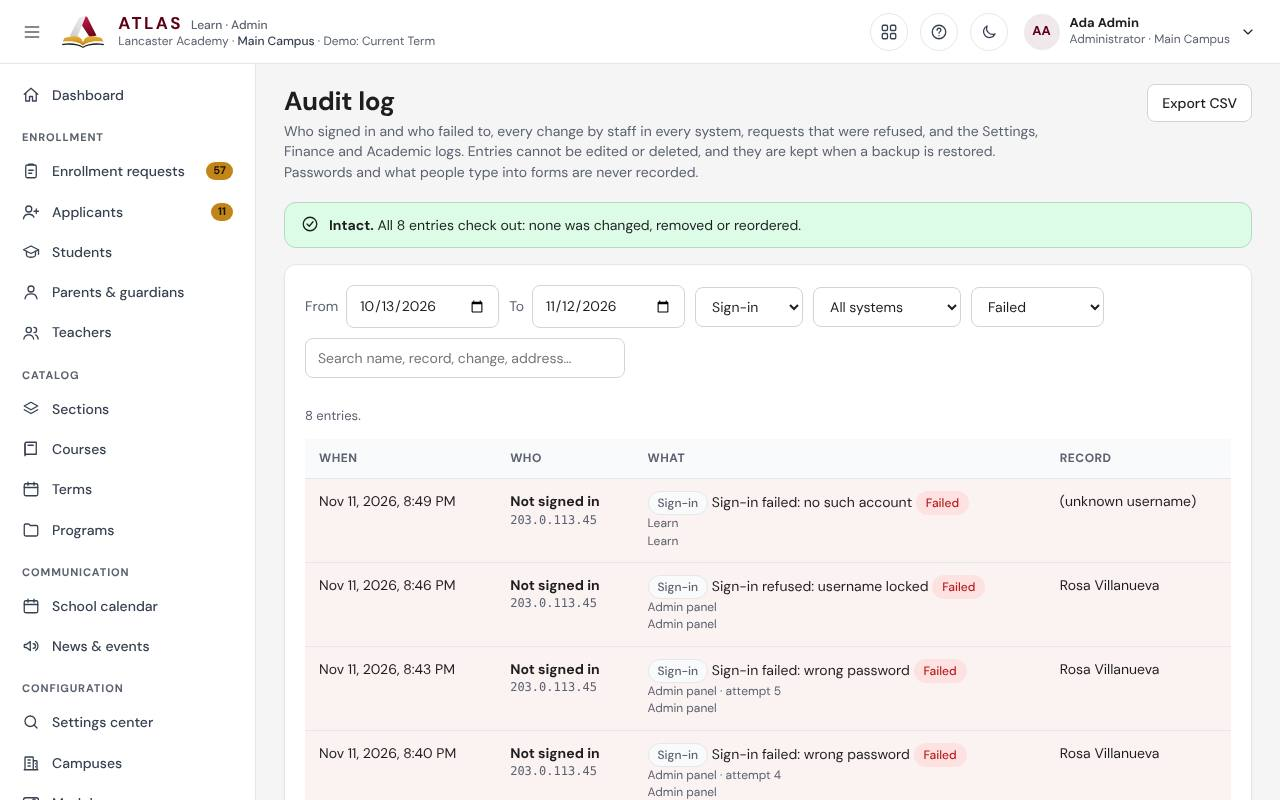
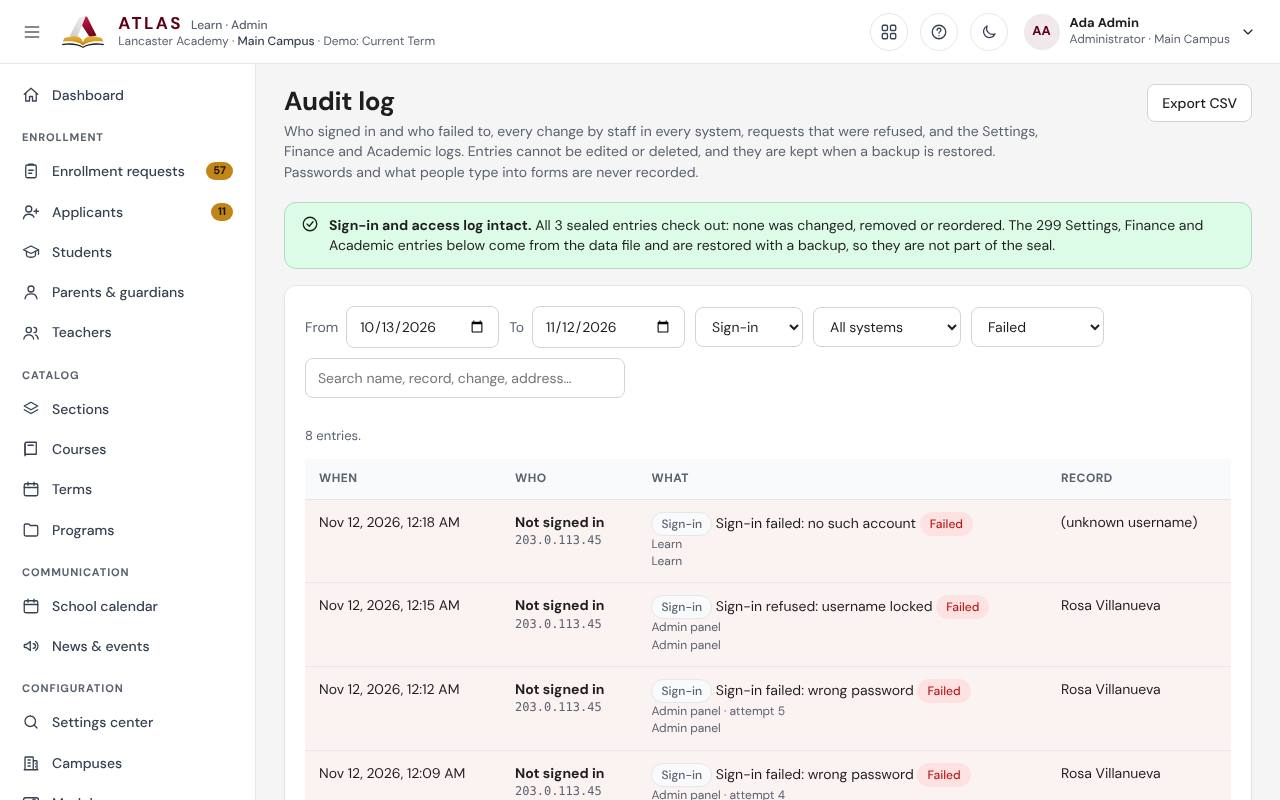
ATLAS: fix three VAPT high-priority findings (DoS body cap, audit verify cost, audit seal scope)
A two-cycle VAPT turned up three high-priority issues, now fixed:

- C1 (unauthenticated DoS): a request body was read and parsed, up to 20 MB,
  before the rate limiter ran, so one anonymous request could stall or crash the
  single-threaded server. The web server now calls api.prepare() first, which
  tallies the rate limits and caps the body at 256 KB for anyone not signed in
  (20 MB stays for signed-in uploads), before a byte is read.

- G2 (audit-log verify cost): verify() re-read and re-parsed the whole
  audit-log.jsonl on every Audit log page load, synchronously. It now caches the
  result and recomputes only when the file changed on disk since the last check
  (size or mtime); our own appends extend the cache, so repeated loads cost a
  stat(). Tamper detection is unchanged.

- G1 (audit "Intact" scope): the badge implied every row was sealed, but the
  Settings, Finance and Academic rows come from the data file and are restored
  with a backup. The notice now reads "Sign-in and access log intact" and states
  how many shown entries sit outside the seal; the route returns sealed/unsealed
  counts.

Guides and the Audit log screenshot updated; a regression test covers the
signed-out body cap. cd lms && npm test: 138 pass.

Claude-Session: https://claude.ai/code/session_0144m4kAiN1qd67UTLL7L4Zw

diff --git a/lms/server/audit.js b/lms/server/audit.js
@@ -17,6 +17,7 @@ import { ROLES, roleLabel } from '../shared/roles.js';
 
 export const AUDIT_FILE = 'audit-log.jsonl';
 const hashOf = (prev, entry) => createHash('sha256').update(`${prev}\n${JSON.stringify(entry)}`).digest('hex');
+const sameStat = (a, b) => Boolean(a && b && a.size === b.size && a.mtimeMs === b.mtimeMs);
 
 export const SYSTEM_LABELS = { home: 'ATLAS home', learn: 'Learn', admin: 'Admin panel', academic: 'Academic', people: 'People', finance: 'Finance', control: 'Users & Access', system: 'Users & Access', help: 'Help' };
 export const KIND_LABELS = { signin: 'Sign-in', signout: 'Sign-out', password: 'Password', account: 'Account', access: 'Access', session: 'Session', settings: 'Settings', change: 'Change', refused: 'Refused', data: 'Data' };
@@ -67,12 +68,23 @@ export function createAudit(db) {
     }
   }
   let last = entries.length ? { seq: entries.at(-1).seq || entries.length, hash: entries.at(-1).hash || '' } : { seq: 0, hash: '' };
+  // verify() re-reads the whole file to detect an edit made outside ATLAS. The audit page loads it
+  // on every visit, so the result is cached and only recomputed when the file has actually changed on
+  // disk since the last check (its size or modified time differs from what we recorded). Our own
+  // appends update the record, so a run of page loads with no outside edit each cost only a stat().
+  const statOf = () => { try { const s = fs.statSync(file); return { size: s.size, mtimeMs: s.mtimeMs }; } catch { return null; } };
+  let cache = null; // the last verify() result
+  let cacheStat = null; // the file's size + mtime when `cache` was computed
   const append = (fields) => {
     const entry = { seq: last.seq + 1, ...fields, prev: last.hash };
     entry.hash = hashOf(last.hash, entry);
+    const goodBefore = file && cache?.ok && cacheStat && sameStat(cacheStat, statOf());
     if (file) fs.appendFileSync(file, `${JSON.stringify(entry)}\n`, { mode: 0o640 });
     entries.push(entry);
     last = { seq: entry.seq, hash: entry.hash };
+    // If the chain was intact and untouched from outside right up to this append, extend the cached
+    // result instead of forcing the next verify() to re-read the whole file; otherwise clear it.
+    if (file) { if (goodBefore) { cache = { ok: true, count: entry.seq }; cacheStat = statOf(); } else { cache = null; cacheStat = null; } }
     return entry;
   };
   // A trail kept inside the data file by an earlier ATLAS moves into the file, once; its demo
@@ -117,27 +129,36 @@ export function createAudit(db) {
     entries: () => entries,
     count: () => last.seq,
     // Re-computes the chain from the file: ok when no entry was changed, removed or reordered.
+    // The result is cached and only recomputed when the file changed on disk since the last call.
     verify() {
-      let lines;
-      if (file) lines = fs.existsSync(file) ? fs.readFileSync(file, 'utf8').split('\n').filter((l) => l.trim()) : [];
-      else lines = entries.map((x) => JSON.stringify(x));
-      let prev = '';
-      let seq = 0;
-      for (const line of lines) {
-        let e;
-        try {
-          e = JSON.parse(line);
-        } catch {
-          return { ok: false, count: seq, brokenAt: seq + 1, at: null };
-        }
-        const { hash, ...rest } = e;
-        if (e.prev !== prev || e.seq !== seq + 1 || hashOf(prev, rest) !== hash) return { ok: false, count: seq, brokenAt: e.seq ?? seq + 1, at: e.at || null };
-        prev = hash;
-        seq = e.seq;
+      if (file) {
+        const now = statOf();
+        if (cache && cacheStat && sameStat(cacheStat, now)) return cache;
+        const r = verifyLines(fs.existsSync(file) ? fs.readFileSync(file, 'utf8').split('\n').filter((l) => l.trim()) : []);
+        cache = r;
+        cacheStat = statOf();
+        return r;
       }
-      return { ok: true, count: seq };
+      return verifyLines(entries.map((x) => JSON.stringify(x)));
     },
   };
+  function verifyLines(lines) {
+    let prev = '';
+    let seq = 0;
+    for (const line of lines) {
+      let e;
+      try {
+        e = JSON.parse(line);
+      } catch {
+        return { ok: false, count: seq, brokenAt: seq + 1, at: null };
+      }
+      const { hash, ...rest } = e;
+      if (e.prev !== prev || e.seq !== seq + 1 || hashOf(prev, rest) !== hash) return { ok: false, count: seq, brokenAt: e.seq ?? seq + 1, at: e.at || null };
+      prev = hash;
+      seq = e.seq;
+    }
+    return { ok: true, count: seq };
+  }
 }
 
 // ----- The combined trail, for Control → Audit trail -----

diff --git a/lms/server/api.js b/lms/server/api.js
@@ -59,6 +59,12 @@ import { addFinanceDemo, removeFinanceDemo } from './finance-demo.js';
 
 const COOKIES = { portal: PORTAL_COOKIE, admin: ADMIN_COOKIE, hris: HRIS_COOKIE };
 
+// The largest request body: 20 MB for someone signed in (files travel as base64 in JSON), and
+// 256 KB for anyone else; signing in, applying and first-run setup need only a few hundred bytes.
+// Reading and decoding a large body holds up the whole server, so a stranger may not send one.
+export const MAX_BODY_SIGNED_IN = 20 * 1024 * 1024;
+export const MAX_BODY_SIGNED_OUT = 256 * 1024;
+
 const fail = (msg, status = 400) => {
   throw new HttpError(status, msg);
 };
@@ -513,10 +519,15 @@ export function createApi(db, { clock = () => new Date(), setupCode = process.en
   // ----- Request handling -----
   const MODULE_NAMES = Object.fromEntries(MODULES.map((m) => [m.id, m.label]));
 
+  // Requests whose rate-limit tally was already taken by prepare() (the web server calls it before
+  // reading the body); handle() then does not count them again. A WeakSet so finished requests drop out.
+  const counted = new WeakSet();
   handle.sealPasswords = sealPasswords;
   handle.audit = audit;
+  handle.prepare = prepare;
   return handle;
-  async function handle(req, url, body) {
+  // Who sent a request, from its session cookies (no body needed).
+  function whoIs(req) {
     const cookies = parseCookies(req.headers.cookie);
     const resolve = (side, token) => {
       const s = sides[side].get(token);
@@ -529,12 +540,28 @@ export function createApi(db, { clock = () => new Date(), setupCode = process.en
     const portalUser = resolve('portal', portalToken);
     const adminUser = resolve('admin', adminToken);
     const hrisUser = resolve('hris', hrisToken);
+    return { cookies, portalToken, adminToken, hrisToken, portalUser, adminUser, hrisUser, signedIn: portalUser || adminUser || hrisUser };
+  }
+  // Called by the web server before it reads a request's body: the request is counted against the
+  // rate limits first (a flood is refused before any work is done), and the body may be large
+  // (uploads) only for someone signed in. Signing in, applying and first-run setup are small.
+  function prepare(req) {
+    const { signedIn } = whoIs(req);
+    if (signedIn) limits.hit('user', signedIn.id);
+    else limits.hit('address', clientIp(req));
+    counted.add(req);
+    return { maxBody: signedIn ? MAX_BODY_SIGNED_IN : MAX_BODY_SIGNED_OUT };
+  }
+
+  async function handle(req, url, body) {
+    const { cookies, portalToken, adminToken, hrisToken, portalUser, adminUser, hrisUser, signedIn } = whoIs(req);
     const tokens = { portal: portalToken, admin: adminToken, hris: hrisToken };
     const ip = clientIp(req);
     const agent = String(req.headers['user-agent'] || '').slice(0, 160);
-    const signedIn = portalUser || adminUser || hrisUser;
-    if (signedIn) limits.hit('user', signedIn.id);
-    else limits.hit('address', ip);
+    if (!counted.has(req)) {
+      if (signedIn) limits.hit('user', signedIn.id);
+      else limits.hit('address', ip);
+    }
     // This app's own address as the browser sees it (behind Caddy: X-Forwarded-*), for the Keycloak redirects.
     const origin = process.env.PUBLIC_URL?.replace(/\/$/, '') || `${String(req.headers['x-forwarded-proto'] || (req.socket?.encrypted ? 'https' : 'http')).split(',')[0]}://${req.headers['x-forwarded-host'] || req.headers.host || 'localhost'}`;
 

diff --git a/lms/server/system.js b/lms/server/system.js
@@ -395,7 +395,8 @@ export function registerSystemRoutes(route, ctx, { sides, throttle }) {
   sys('GET', '/api/system/audit', (a) => {
     const { query } = a;
     const f = { q: query.q, source: query.source, kind: query.kind, system: query.system, outcome: query.outcome, userId: query.userId, from: query.from, to: query.to };
-    const list = filterTrail(everything(), f);
+    const all = everything();
+    const list = filterTrail(all, f);
     if (query.format === 'csv') {
       log(a, { kind: 'data', action: 'Downloaded the audit trail', detail: `${list.length} entr${list.length === 1 ? 'y' : 'ies'}${Object.entries(f).filter(([, v]) => v).map(([k, v]) => `; ${k}: ${v}`).join('')}`.slice(0, 400) });
       return { raw: trailCsv(list), type: 'text/csv', headers: { 'Content-Disposition': `attachment; filename="atlas-audit-trail-${new Date().toISOString().slice(0, 10)}.csv"` } };
@@ -404,11 +405,15 @@ export function registerSystemRoutes(route, ctx, { sides, throttle }) {
     const pages = Math.max(1, Math.ceil(list.length / size));
     const page = Math.min(pages, Math.max(1, Number(query.page) || 1));
     const who = query.userId ? data().users.find((u) => u.id === query.userId) : null;
+    // The sealed chain (source 'trail') is tamper-evident; the Settings, Finance and Academic rows
+    // come from the data file and are restored with a backup, so they are not part of the seal. Tell
+    // the page how many of everything there is sit outside the chain, so the "Intact" notice is honest.
+    const unsealed = all.filter((e) => e.source !== 'trail').length;
     return {
       total: list.length, page, pages, entries: list.slice((page - 1) * size, page * size),
       user: who ? { id: who.id, name: who.name } : null,
       labels: { systems: SYSTEM_LABELS, kinds: KIND_LABELS, sources: SOURCE_LABELS },
-      kept: { trail: trail().length, oldest: trail()[0]?.at || null, file: Boolean(ctx.auditLog.file) },
+      kept: { trail: trail().length, oldest: trail()[0]?.at || null, file: Boolean(ctx.auditLog.file), sealed: trail().length, unsealed },
       check: ctx.auditLog.verify(),
     };
   });

diff --git a/lms/public/js/system/audit.js b/lms/public/js/system/audit.js
@@ -45,7 +45,7 @@ export async function auditView(el, params, query) {
       form.querySelector('[name=system]').innerHTML = [['', 'All systems'], ...Object.entries(res.labels.systems).filter(([k, l]) => k !== 'control' && !seen.has(l) && seen.add(l))].map(([k, l]) => `<option value="${k}" ${k === state.system ? 'selected' : ''}>${l}</option>`).join('');
     }
     mount(el.querySelector('#check'), res.check.ok
-      ? html`<div class="notice ok">${icon('checkCircle')}<p><strong>Intact.</strong> All ${res.check.count.toLocaleString()} entries check out: none was changed, removed or reordered.</p></div>`
+      ? html`<div class="notice ok">${icon('checkCircle')}<p><strong>Sign-in and access log intact.</strong> All ${res.check.count.toLocaleString()} sealed entries check out: none was changed, removed or reordered.${res.kept?.unsealed ? html` The ${res.kept.unsealed.toLocaleString()} Settings, Finance and Academic entries below come from the data file and are restored with a backup, so they are not part of the seal.` : ''}</p></div>`
       : html`<div class="notice bad">${icon('flag')}<p><strong>The log was altered.</strong> Entry ${res.check.brokenAt}${res.check.at ? ` (${when(res.check.at)})` : ''} does not match the entries before it: the file was edited outside ATLAS. Keep a copy of <code>audit-log.jsonl</code> and investigate.</p></div>`);
     mount(el.querySelector('#audit-list'), res.entries.length
       ? html`<p class="muted small">${res.user ? html`For <strong>${res.user.name}</strong> (what they did, and what was done to their account). <a href="#/system/audit">Everyone</a> · ` : ''}${res.total > res.entries.length ? `Showing ${res.entries.length} of ${res.total.toLocaleString()}, newest first.` : `${res.total.toLocaleString()} entr${res.total === 1 ? 'y' : 'ies'}.`}</p>

diff --git a/lms/server.js b/lms/server.js
@@ -57,11 +57,11 @@ function send(res, status, body, type = 'application/json', headers = {}) {
   res.end(type === 'application/json' ? JSON.stringify(body) : body);
 }
 
-// The JSON body, at most 20 MB (uploads come as base64 in JSON). Bytes are joined before decoding,
-// so a letter split across two network packets is not broken; past the limit the upload is
-// stopped instead of being read to the end.
-const MAX_BODY = 20 * 1024 * 1024;
-function readBody(req) {
+// The JSON body: at most 20 MB for someone signed in (uploads come as base64 in JSON), 256 KB for
+// anyone else (api.prepare decides, before a byte is read). Bytes are joined before decoding, so a
+// letter split across two network packets is not broken; past the limit the upload is stopped
+// instead of being read to the end.
+function readBody(req, MAX_BODY) {
   return new Promise((resolve, reject) => {
     const chunks = [];
     let size = 0;
@@ -170,7 +170,10 @@ const server = http.createServer(async (req, res) => {
     return send(res, 415, { error: 'Requests must be JSON.' });
   }
   try {
-    const body = ['POST', 'PUT'].includes(req.method) ? await readBody(req) : {};
+    // Rate limits and the body's size limit come first: a flood or an oversized body from someone
+    // who is not signed in is refused before the server spends any time reading it.
+    const { maxBody } = api.prepare(req);
+    const body = ['POST', 'PUT'].includes(req.method) ? await readBody(req, maxBody) : {};
     const out = await api(req, url, body);
     if (out.raw != null) return send(res, out.status || 200, out.raw, out.type, out.headers);
     send(res, 200, out.data, 'application/json', out.headers);

diff --git a/lms/test/security.test.js b/lms/test/security.test.js
@@ -208,6 +208,12 @@ test('the server answers malformed requests with 400 and keeps running; security
     assert.equal((await post('{"username":"a"}', 'text/plain')).status, 415);
     const big = await post(`{"a":"${'x'.repeat(21 * 1024 * 1024)}"}`).catch(() => ({ status: 413 }));
     assert.equal(big.status, 413);
+    // A request from someone not signed in may not carry a multi-MB body: it is refused on its
+    // Content-Length, before the server reads or parses it (so a flood cannot stall the server).
+    const midBody = `{"a":"${'x'.repeat(2 * 1024 * 1024)}"}`;
+    const mid = await post(midBody).catch(() => ({ status: 413 }));
+    assert.equal(mid.status, 413, 'a 2 MB body from a signed-out client is refused');
+    assert.ok((await fetch(`${base}/healthz`)).ok, 'still running after the oversized body');
     // Letters split across network packets arrive whole.
     const r = await fetch(`${base}/api/hub/login`, { method: 'POST', headers: { 'Content-Type': 'application/json' }, body: JSON.stringify({ username: 'ñ'.repeat(70000), password: 'x' }) });
     assert.equal(r.status, 401);

diff --git a/lms/docs/guides/admin.md b/lms/docs/guides/admin.md
@@ -111,7 +111,7 @@ The row then shows **+ own access** under the account type. Changing a person's 
 ### Read and export the Audit log
 
 1. Under **System**, choose **Audit log**. It opens on the last 30 days, newest first: sign-ins and failed sign-ins (with the network address), sign-outs and password changes, every change by staff in every system, requests that were refused, and the Settings, Finance and Academic logs.
-2. The notice at the top checks the log: **Intact.** means no entry was changed, removed or reordered. If it says **The log was altered.**, the file was edited outside ATLAS: keep a copy and investigate.
+2. The notice at the top checks the log: **Sign-in and access log intact.** means no sealed entry was changed, removed or reordered. The sealed log covers sign-ins, failed sign-ins and the changes staff make across ATLAS; the Settings, Finance and Academic entries shown below it come from the data file and are restored with a backup, so they sit outside the seal and the notice says how many they are. If it says **The log was altered.**, the sealed file was edited outside ATLAS: keep a copy and investigate.
 3. Narrow it with **From** and **To**, the area (**Sign-in**, **Account**, **Change**, **Refused**…), the system, the outcome, or the search box (a name, a record, a changed field or a network address). A change to an account, its access or a setting lists each field with its value before and after.
 4. Choose **Export CSV** for every entry that matches. The export itself is written in the log.
 

diff --git a/lms/docs/guides/whats-new.md b/lms/docs/guides/whats-new.md
@@ -9,6 +9,11 @@ order: 2
 
 ## November 2026
 
+### Safer and faster under load
+- **The Audit log check is clearer about what it seals.** The notice now reads **Sign-in and access log intact** and says how many of the entries below (Settings, Finance and Academic) come from the data file and are restored with a backup, rather than implying every row is sealed. See [the administrator's guide](admin#read-and-export-the-audit-log).
+- **The Audit log opens quickly however large it grows:** the integrity check no longer re-reads the whole file on every visit.
+- **A visitor who is not signed in can no longer send a large request** to slow the server; uploads still work once you are signed in.
+
 ### Users & Access and the Audit log, as in CORE
 - **ATLAS Control is gone.** Its pages are now in a **System** group at the bottom of the sidebar, as in CORE, for administrators only, in whichever system is open: the Admin panel, People, Academic and Finance. See [the administrator's guide](admin#find-an-account-change-it-reset-its-password-or-disable-it).
 - **Users & Access** is one page, as in CORE: every account with its type, linked employee, status and last sign-in, and **Edit**, **Access**, **Reset password**, **Unlock**, **Sign out**, **Audit log** and **Delete** on each row; **+ Add user** for staff accounts of any type; and **Account types**, what each type can do in each system. It replaces **Admins, registrars & deans**.
